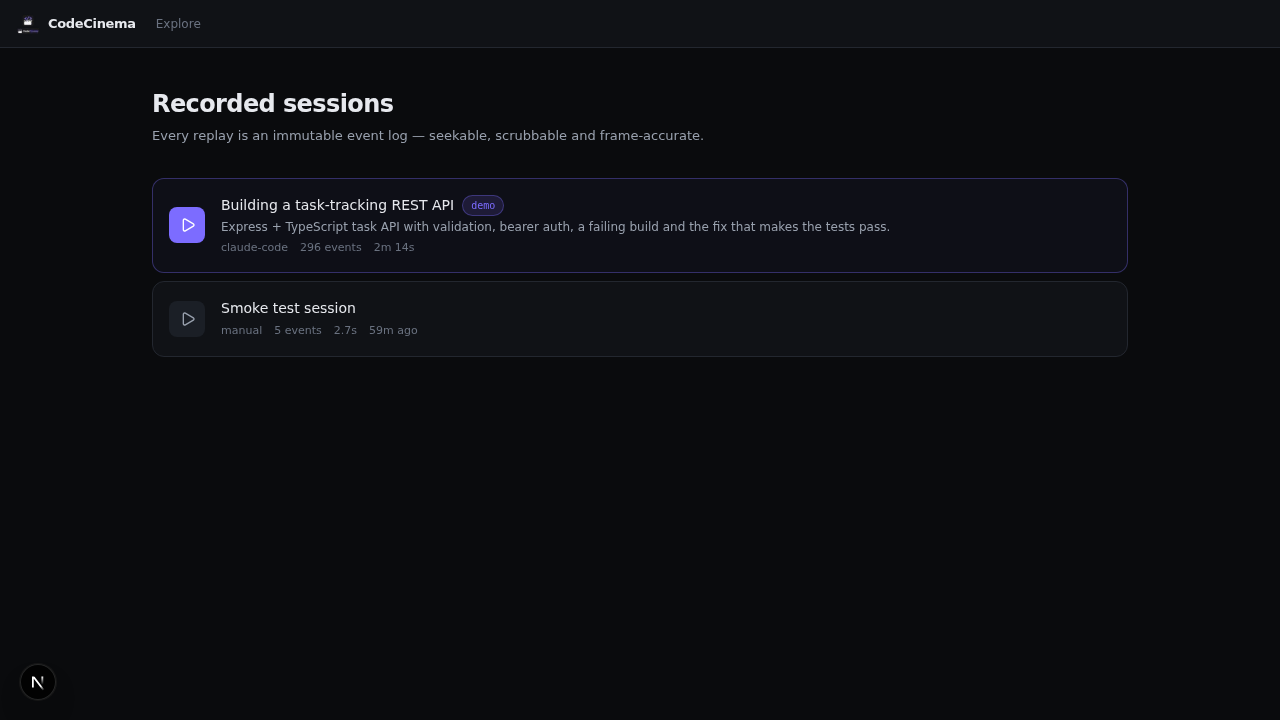
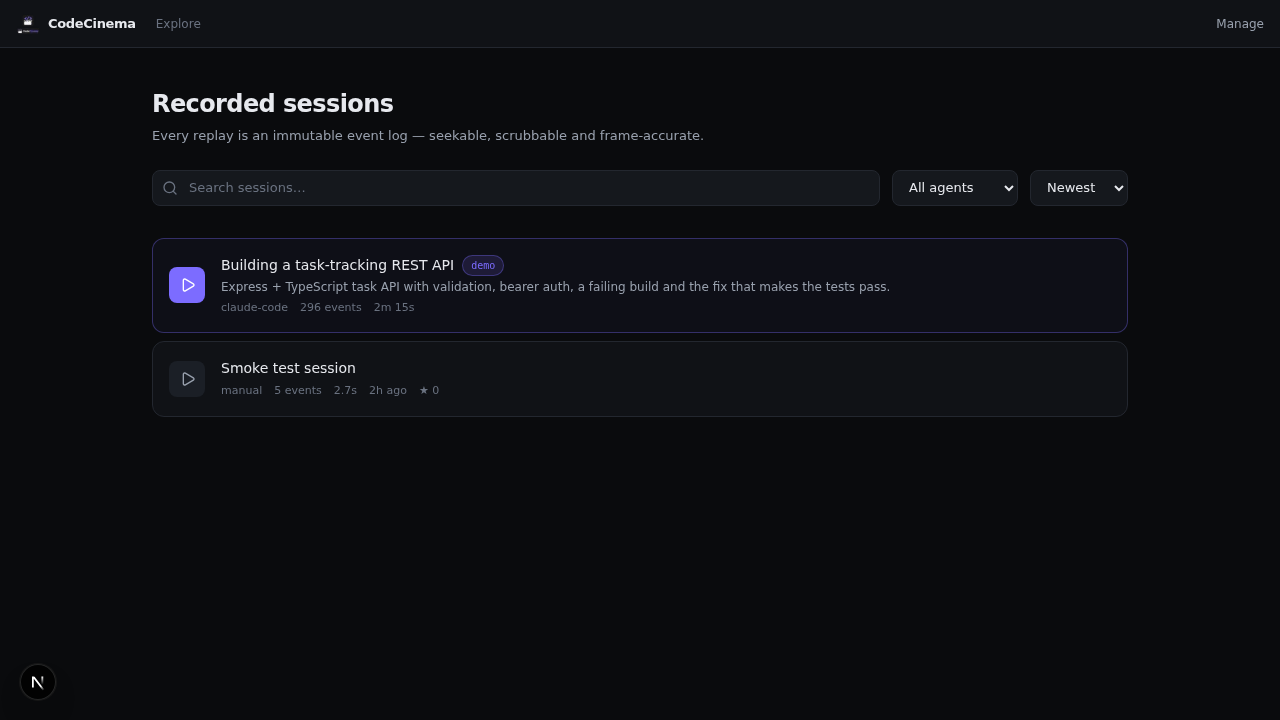
docs: update README with current UI demos

diff --git a/README.md b/README.md
@@ -24,7 +24,11 @@ scrubbable, searchable, and portable between agents.
 
 | Home | Explore | Replay |
 | --- | --- | --- |
-| ![Home](docs/media/home.png) | ![Explore](docs/media/explore.png) | ![Replay](docs/media/demo.png) |
+| ![Home](docs/media/home.png) | ![Explore](docs/media/explore.png) | ![Replay](docs/media/replay.png) |
+
+| Panels | Comments | Diff |
+| --- | --- | --- |
+| ![Panels](docs/media/panel-timeline.png) | ![Comments](docs/media/panel-comments.png) | ![Diff](docs/media/panel-diff.png) |
 
 A short video walkthrough is also available: [demo.mp4](docs/media/demo.mp4).
 
@@ -46,6 +50,12 @@ movement, selection highlights, backspaces, rewrites, tab switches and scroll.
 extracted from the finished code.
 
 **Exports.** JSON session, MP4 video, GIF, and shareable replay links.
+
+**Community layer.** Comments, stars, tags, anonymous sign-in, and session
+management for creating, editing, publishing and deleting sessions.
+
+**Analysis panels.** Timeline, reasoning, progress, architecture, comments,
+bookmarks, exports, content search, file history and side-by-side diff.
 
 ## Supported agents
 
